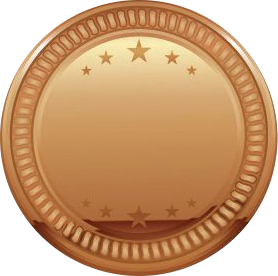
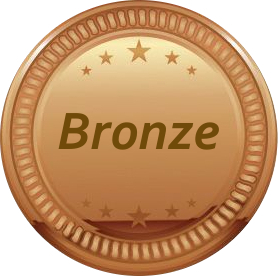
nom sur les medailles

Changed region(s): [[0.2014, 0.4058, 0.8058, 0.5507]]

diff --git a/scripts/css/style_index.css b/scripts/css/style_index.css
@@ -1,3 +1,8 @@
+@font-face {
+    font-family: "cros_regular";
+    src: url('cros_regular.ttf');
+}
+
 * {
   -webkit-box-sizing: border-box;
      -moz-box-sizing: border-box;
@@ -44,6 +49,14 @@ img {
 	border-style: solid;
 	border-radius: 0.3em;
 }
+.container_equipe{
+  padding: 0.2em;
+	margin: 0.5em;
+	padding-right: 1em;
+	padding-left: 1em;
+	border-style: solid;
+  font-family: "cros_regular" !important;
+	border-radius: 0.3em;}
 .text_center {
     color: #333330;
     font-size: 1.2em;
@@ -55,7 +68,11 @@ img {
     transition: 0.3s;
     cursor: zoom-in;
 }
-
+#myImg {
+    border-radius: 5px;
+    transition: 0.3s;
+    cursor: zoom-in;
+}
 #myImg:hover {
     opacity: 0.8;
 }
@@ -95,7 +112,7 @@ img {
 }
 
 /* Add Animation - Zoom in the Modal */
-.modal-content, #caption { 
+.modal-content, #caption {
     -webkit-animation-name: zoom;
     -webkit-animation-duration: 0.6s;
     animation-name: zoom;
@@ -103,12 +120,12 @@ img {
 }
 
 @-webkit-keyframes zoom {
-    from {-webkit-transform:scale(0)} 
+    from {-webkit-transform:scale(0)}
     to {-webkit-transform:scale(1)}
 }
 
 @keyframes zoom {
-    from {transform:scale(0)} 
+    from {transform:scale(0)}
     to {transform:scale(1)}
 }
 
@@ -149,8 +166,8 @@ img {
     background-color: #CCCCC0;
     box-shadow: 0px 0px 8em #CCCCC0;
 }
-#sses2 ul 
-{ 
+#sses2 ul
+{
     position: relative;
     list-style-type: none;
     float:left;
@@ -193,6 +210,7 @@ img {
 }
 
 .head {
+
     padding: 0.2em;
     margin: 0.5em;
     padding-right: 1em;
@@ -200,12 +218,21 @@ img {
     border-style: solid;
     border-radius: 0.3em;
     font-size: 1.5em;
-    text-align: center;
+
 }
 .gold {
     display: inline-block;
-    border-radius: 5em;
+    border-radius: 10em;
     width: 40%;
+    float: left;
+}
+.equipe {
+    box-shadow: 3px 3px 30px #555;
+    display: inline-block;
+    border-radius: 25em;
+    margin: 1em;
+    width: 30%;
+    height: 30%;
     float: left;
 }
 .gold_text {
@@ -216,11 +243,47 @@ img {
     vertical-align: middle;
     font-size: 1.2em;
 }
+h2{
+  text-align: middle;
+  margin-left: 5.5em;
+  margin-right: 3.74em;
+  font-family: "cros_regular";
+  font-size: 1.5em;
+}
+h3{
+  text-align: justify;
+  margin-left: 5em;
+  font-size: 1em;
+}
+.equipe_text {
+    display: inline-block;
+    text-align: left;
+    float: right;
+    font-family: "cros_regular";
+    margin-left: 1em;
+    width: 55%;
+    vertical-align: middle;
+    font-size: 1.2em;
+}
+.equipe_textc {
+    display: inline-block;
+    text-align: center;
+    font-family: "cros_regular";
+    vertical-align: middle;
+    font-size: 1.2em;
+}
 .logo {
     display: inline-block;
-    border-radius: 0.8em;
+    border-radius: 0.2em;
     width: 20%;
     float: left;
+}
+.logoindex {
+    display: inline-block;
+    border-radius: 0.2em;
+    width: 20%;
+    float: left;
+    margin: 1em;
 }
 .scrollToTop {
     position: fixed;

diff --git a/equipe.php b/equipe.php
@@ -1,0 +1,111 @@
+<!DOCTYPE html>
+<html>
+<head>
+	<title>Hello Wolrd!</title>
+	<meta http-equiv="content-type" content="text/html; charset=utf-8" />
+	<script src="https://ajax.googleapis.com/ajax/libs/jquery/3.1.0/jquery.min.js"></script>
+	<script src="https://ajax.googleapis.com/ajax/libs/jquery/2.2.4/jquery.min.js"></script>
+	<script type="text/javascript">
+		if( /Android|webOS|iPhone|iPad|iPod|BlackBerry|IEMobile|Opera Mini/i.test(navigator.userAgent) ) {
+			document.write('<link rel="stylesheet" type="text/css" href="scripts/css/smartphone.css" />');
+
+		} else {
+			document.write('<link rel="stylesheet" type="text/css" href="scripts/css/style_index.css" />');
+		}
+	</script>
+	<script type="text/javascript" src="scripts/js/animations.js"></script>
+	<script type="text/javascript" src="scripts/js/scrollToTop.js"></script>
+	<script type="text/javascript" src="scripts/js/image_zoom.js"></script>
+	<link rel="shortcut icon" type="image/x-icon" href="imgages/logo.png" />
+	<!--Page de chargement: Annimation-->
+</head>
+<!--Body + Architecture en FlexBox-->
+<body>
+<div class="background"></div>
+<div class="main_body">
+
+<!--Div Présentation de l'équipe et de l'entreprise-->
+	<div id="intro" class="head">
+		<img src="images/logo1.png" class="logo" href="index.html">
+		<h2>Une  equipe  de  choc</h2>
+	</div>
+
+<!--Div Présentation des trois types d'abonnements-->
+	<div class="container_equipe">
+		<p class="equipe_textc">Chacun a sa spécilité, cette union est une force. Pour vous c'est l'assurance de répondre à tout vos problèmes.</p>
+
+		<div id="myModal" class="modal">
+		  <!-- The Close Button -->
+		  <span class="close" onclick="document.getElementById('myModal').style.display='none'">&times;</span>
+		  <!-- Modal Content (The Image) -->
+		  <!-- Modal Caption (Image Text) -->
+		  <div id="caption"></div>
+		</div>
+	</div>
+
+<!--Div Abonnement Gold-->
+	<div class="container_equipe">
+		<img  src="images/erwan.png" class="equipe" alt="">
+		<!-- The Modal -->
+		<div id="myModal" class="modal">
+		  <!-- The Close Button -->
+		  <span class="close" onclick="document.getElementById('myModal').style.display='none'">&times;</span>
+		  <!-- Modal Content (The Image) -->
+		  <img class="modal-content" id="img02">
+		  <!-- Modal Caption (Image Text) -->
+		  <div id="caption"></div>
+		</div>
+		<p class="equipe_text">Erwan
+				<br>
+							<br>Le manager
+							<br>
+							<br>Jeune dynamique enthousiaste il sait motiver son équipe.
+		</p>
+	</div>
+
+<!--Div Abonnement Silver-->
+	<div class="container_equipe">
+		<img src="images/antoine.png" class="equipe">
+		<p class="equipe_text">Antoine
+							<br>
+							<br>le web designer<br>
+							<br> Il est passionné par son métier
+							<br>Grâce à sa formation de game designer et de web développeur Web avec Simplon, il connaît plusieurs languages.
+		</p>
+	</div>
+
+<!--Div Abonnement Bronze-->
+	<div class="container_equipe">
+		<img src="images/Alex.png" class="equipe">
+		<p class="equipe_text">Alex<br>
+											<br>le spécialiste de la sécurité<br>
+							<br>Il à suivi une formation classique C++, avec Simplon il a élargi ses compétences.
+													<br><br> <br><br>
+		</p>
+	</div>
+	<div class="container_equipe">
+		<img src="images/Fanny.png" class="equipe">
+		<p class="equipe_text">Fanny<br>
+							<br>La polyvalente<br>
+													<br>Grace à sa formation de comptable elle s'occupe de la partie  administrative. Passioné  par l'art elle peut être très créative.
+													<br> <br><br>
+		</p>
+	</div>
+
+<!--Menu Flottant-->
+<div id="sse2">
+	<div id="sses2">
+		<ul>
+			<li><a href="">Contactez-nous</a></li>
+			<li><a href="">Achats</a></li>
+			<li><a href="">Mon espace client</a></li>
+			<li><a href="">Notre équipe</a></li>
+		</ul>
+	</div>
+</div>
+
+<div>
+	<a href="#" class="scrollToTop"><img id ="top" src = "images/up.png"/></a>
+</div>
+</body>
+</html>
